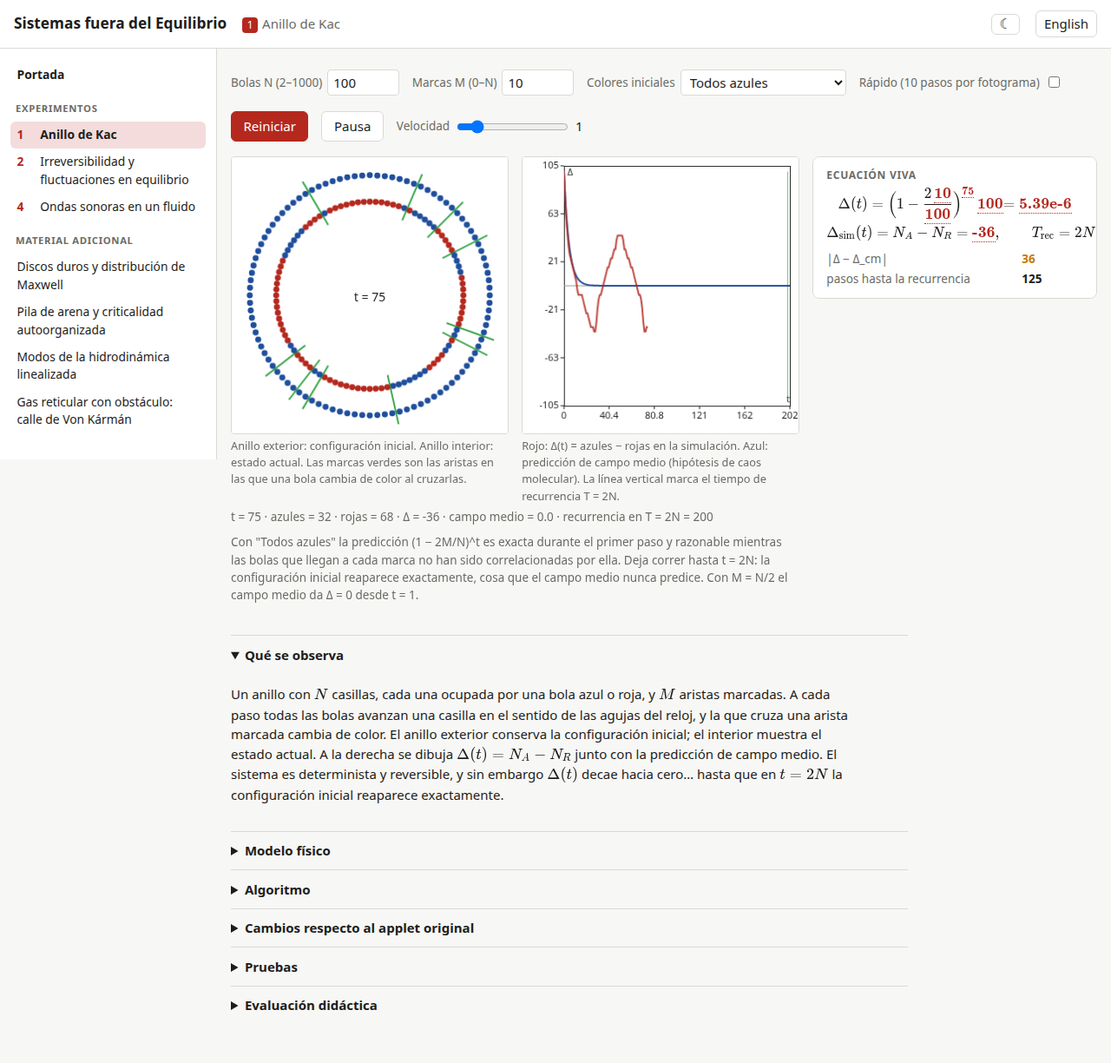
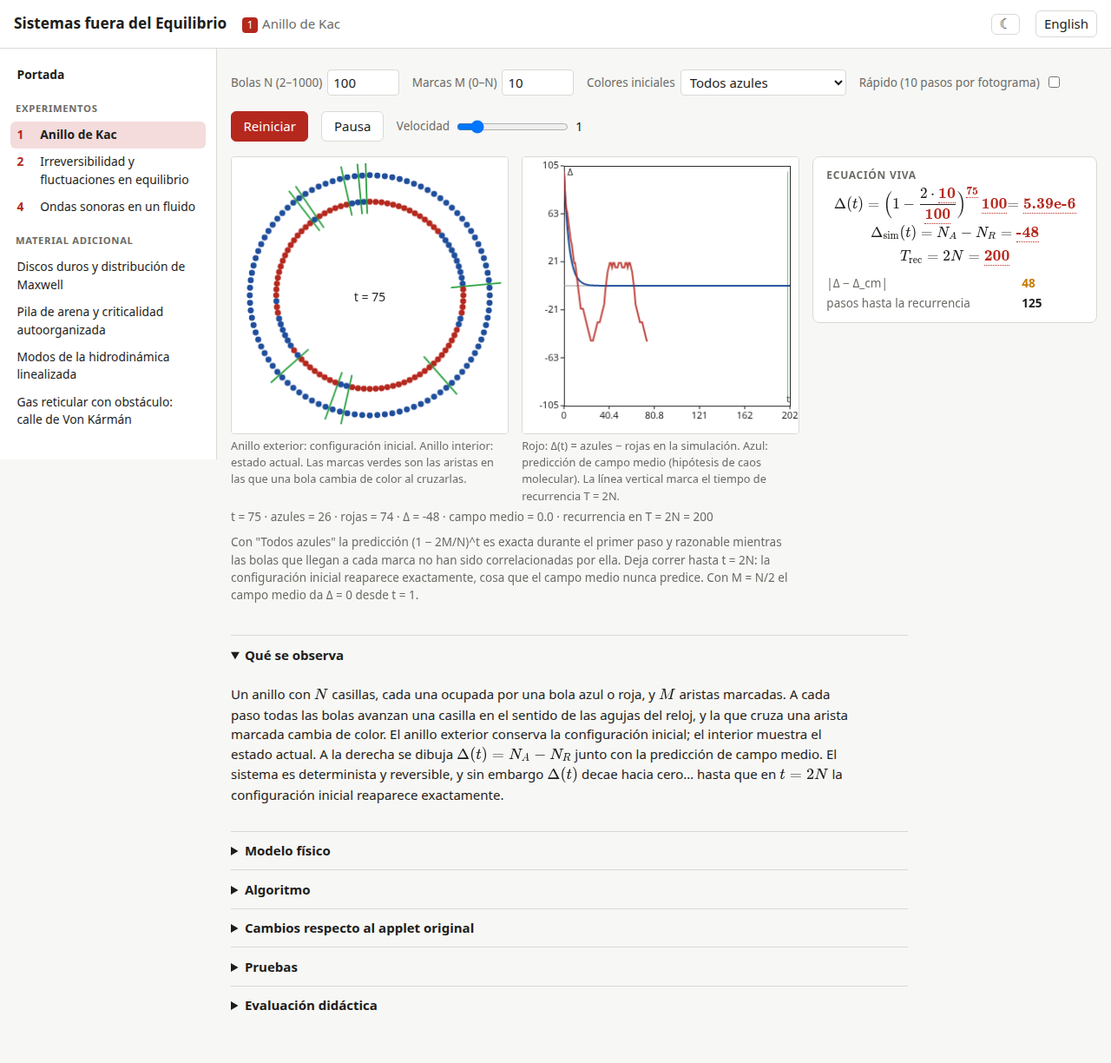
feat: irreversibilidad experiment (free expansion, Ehrenfest model, embedded window fluctuations) with binomial live equation

diff --git a/applets/irreversibilidad/applet.js b/applets/irreversibilidad/applet.js
@@ -1,0 +1,145 @@
+// Irreversibility and equilibrium fluctuations — experiment 2. Three views:
+// A) free expansion of a hard-disk gas, B) Ehrenfest random model,
+// C) occupation fluctuations in a window (the phase-1 applet, embedded).
+import { i18n } from '../../lib/i18n.js';
+import { Plot } from '../../lib/plot.js';
+import { Loop } from '../../lib/loop.js';
+import { numberField, select, loopControls } from '../../lib/ui.js';
+import { autoResize, appletSkeleton, mountSections } from '../../lib/page.js';
+import { liveEquation, formatValue } from '../../lib/liveeq.js';
+import * as I from './model.js';
+import * as Fl from '../fluctuaciones/applet.js';
+
+export const meta = { slug: 'irreversibilidad', titleKey: 'irrev.title', legacyPath: 'HARDDISKSAPPLET_BASE.JAVA', number: 2 };
+
+i18n.register({
+  es: {
+    'irrev.view': 'Vista', 'irrev.view.gas': 'A · Expansión libre de discos duros', 'irrev.view.ehrenfest': 'B · Modelo aleatorio (Ehrenfest)', 'irrev.view.window': 'C · Fluctuaciones en una ventana',
+    'irrev.N': 'Partículas N', 'irrev.kT': 'Temperatura kT', 'irrev.plot': 'Gráfica', 'irrev.plot.series': 'Δ(t) = n_izq − n_dcha', 'irrev.plot.hist': 'Histograma de Δ frente a la binomial',
+    'irrev.cap.box': 'Las N partículas empiezan en la mitad izquierda. Al iniciar se retira el tabique (línea discontinua) y el gas se expande. En B no hay dinámica: cada paso se elige una partícula al azar y se cambia de lado.',
+    'irrev.cap.plot': 'Rojo: Δ(t). Bandas azules: ±σ y ±3σ con σ_Δ = √N (68 % y 99.7 % del tiempo en equilibrio). En el histograma, barras: medido; azul: binomial exacta.',
+    'irrev.readout': 't = {t} · izquierda = {l} · derecha = {r} · Δ = {d} · ⟨Δ⟩ = {mean} · σ_Δ medida = {sd} (teoría √N = {sN}) · |Δ| > 3σ el {f3} % del tiempo · todas a un lado el {fall} %',
+    'irrev.hint': 'Con N = 6 verás a menudo las seis partículas en el mismo lado: la "expansión" se invierte sola. Con N = 20 ocurre el 0.0002 % de los pasos; con N = 100 nunca lo verás. La irreversibilidad es cuestión del número de partículas, no de la dinámica. La vista B reproduce las mismas fluctuaciones sin ninguna mecánica.',
+    'irrev.eq.N': 'número de partículas', 'irrev.eq.sigma': 'desviación típica de Δ en equilibrio', 'irrev.eq.pall': 'probabilidad de encontrar todas a un lado', 'irrev.eq.sd': 'σ_Δ medida',
+    'irrev.ind.ratio': 'σ_Δ medida / √N', 'irrev.ind.all': 'fracción con todas a un lado (teoría 2^{1−N})',
+  },
+  en: {
+    'irrev.view': 'View', 'irrev.view.gas': 'A · Free expansion of hard disks', 'irrev.view.ehrenfest': 'B · Random model (Ehrenfest)', 'irrev.view.window': 'C · Fluctuations in a window',
+    'irrev.N': 'Particles N', 'irrev.kT': 'Temperature kT', 'irrev.plot': 'Plot', 'irrev.plot.series': 'Δ(t) = n_left − n_right', 'irrev.plot.hist': 'Histogram of Δ vs the binomial',
+    'irrev.cap.box': 'The N particles start in the left half. On start the partition (dashed) is removed and the gas expands. In B there is no dynamics: each step picks a particle at random and moves it to the other side.',
+    'irrev.cap.plot': 'Red: Δ(t). Blue bands: ±σ and ±3σ with σ_Δ = √N (68 % and 99.7 % of the time in equilibrium). In the histogram, bars: measured; blue: exact binomial.',
+    'irrev.readout': 't = {t} · left = {l} · right = {r} · Δ = {d} · ⟨Δ⟩ = {mean} · measured σ_Δ = {sd} (theory √N = {sN}) · |Δ| > 3σ {f3} % of the time · all on one side {fall} %',
+    'irrev.hint': 'With N = 6 you will often see all six particles on the same side: the "expansion" reverses by itself. With N = 20 it happens 0.0002 % of the steps; with N = 100 you will never see it. Irreversibility is a matter of particle number, not of dynamics. View B reproduces the same fluctuations with no mechanics at all.',
+    'irrev.eq.N': 'number of particles', 'irrev.eq.sigma': 'standard deviation of Δ in equilibrium', 'irrev.eq.pall': 'probability of finding all on one side', 'irrev.eq.sd': 'measured σ_Δ',
+    'irrev.ind.ratio': 'measured σ_Δ / √N', 'irrev.ind.all': 'fraction with all on one side (theory 2^{1−N})',
+  },
+});
+
+export function mount(root, { root: base = '../..' } = {}) {
+  root.innerHTML = '<div class="params view-select"></div><div class="view-host"></div><div class="theory-sections"></div>';
+  const host = root.querySelector('.view-host');
+  const pView = select({ label: 'irrev.view', value: 'gas', options: ['gas', 'ehrenfest', 'window'].map((v) => ({ value: v, label: `irrev.view.${v}` })), onChange: (v) => show(v) });
+  root.querySelector('.view-select').append(pView.el);
+  let handle = null;
+  function show(v) {
+    handle?.destroy?.(); host.replaceChildren();
+    handle = v === 'window' ? Fl.mount(host, { root: base, embedded: true }) : mountAB(host, v);
+    i18n.apply(host); window.dispatchEvent(new Event('resize'));
+  }
+  show('gas');
+  mountSections(root.querySelector('.theory-sections'), meta.slug, base);
+  return { get loop() { return handle?.loop; }, destroy() { handle?.destroy?.(); root.replaceChildren(); } };
+}
+
+function mountAB(root, kind) {
+  const ui = appletSkeleton(root, { canvases: [{ id: 'box', caption: 'irrev.cap.box' }, { id: 'plot', caption: 'irrev.cap.plot' }], hintKey: 'irrev.hint', theory: false });
+  let state;
+  const pN = numberField({ label: 'irrev.N', value: 20, min: 1, max: kind === 'gas' ? 100 : 1000, integer: true });
+  const pkT = numberField({ label: 'irrev.kT', value: 1, min: 0.01, max: 100 });
+  const pPlot = select({ label: 'irrev.plot', value: 'series', options: [{ value: 'series', label: 'irrev.plot.series' }, { value: 'hist', label: 'irrev.plot.hist' }], onChange: () => draw() });
+  ui.params.append(pN.el); if (kind === 'gas') ui.params.append(pkT.el); ui.params.append(pPlot.el);
+
+  const L = 200;
+  const box = new Plot(ui.canvas.box, { xmin: 0, xmax: L, ymin: 0, ymax: L });
+  const plot = new Plot(ui.canvas.plot, { axes: true, xlabel: 't', ylabel: 'Δ' });
+  const eq = liveEquation(ui.panel, {
+    title: 'eq.title',
+    equations: [
+      { tex: 'P(n_{\\rm izq}=n) = \\binom{\\htmlId{N}{N}}{n}\\,2^{-N},\\qquad \\Delta = n_{\\rm izq} - n_{\\rm dcha}', slots: { N: { label: 'irrev.eq.N' } } },
+      { tex: '\\sigma_\\Delta = \\sqrt{N} = \\htmlId{sigma}{\\sigma_\\Delta},\\qquad \\sigma_\\Delta^{\\rm med} = \\htmlId{sd}{\\sigma}', slots: { sigma: { label: 'irrev.eq.sigma' }, sd: { label: 'irrev.eq.sd' } } },
+      { tex: 'P(|\\Delta| = N) = 2^{\\,1-N} = \\htmlId{pall}{P}', slots: { pall: { label: 'irrev.eq.pall', fmt: (v) => (v < 1e-4 ? v.toExponential(1) : formatValue(v)) } } },
+    ],
+    indicators: [{ key: 'ratio', label: 'irrev.ind.ratio' }, { key: 'all', label: 'irrev.ind.all', fmt: (v) => (Number.isNaN(v) ? '—' : v === 0 ? '0' : v.toExponential(1)) }],
+  });
+
+  const SKIP = () => (kind === 'gas' ? 100 : 5 * state.N); // transient to drop from statistics
+  function reset() {
+    state = kind === 'gas' ? I.createGas({ N: pN.get(), kT: pkT.get(), L }) : I.createEhrenfest({ N: pN.get() });
+    eq.update({ N: state.N, sigma: Math.sqrt(state.N), pall: I.probAllOneSide(state.N) });
+  }
+  function step() { if (kind === 'gas') I.stepGas(state); else I.stepEhrenfest(state); }
+  function drawBox() {
+    box.clear();
+    box.color('#999'); box.ctx.setLineDash([6, 6]); box.line(L / 2, 0, L / 2, L); box.ctx.setLineDash([]);
+    if (kind === 'gas') {
+      if (!state.partition.open) { box.color('#444'); box.lineWidth(3); box.line(L / 2, 0, L / 2, L); box.lineWidth(1); }
+      box.color('#1f4e9c');
+      for (let i = 0; i < state.N; i++) box.disk(state.x[i], state.y[i], state.r[i]);
+    } else {
+      // Ehrenfest: draw `left` disks on the left grid and the rest on the right.
+      const N = state.N, cols = Math.ceil(Math.sqrt(N)), cell = (L / 2 - 10) / cols, r = Math.min(4, cell * 0.4);
+      box.color('#1f4e9c');
+      for (let i = 0; i < state.left; i++) box.disk(5 + cell * (i % cols + 0.5), 5 + cell * (Math.floor(i / cols) + 0.5), r);
+      box.color('#b5281e');
+      for (let i = 0; i < N - state.left; i++) box.disk(L / 2 + 5 + cell * (i % cols + 0.5), 5 + cell * (Math.floor(i / cols) + 0.5), r);
+    }
+    box.end();
+  }
+  function drawPlot() {
+    const N = state.N, h = state.history, sN = Math.sqrt(N);
+    if (pPlot.get() === 'series') {
+      const win = kind === 'gas' ? 600 : Math.max(600, 20 * N), from = Math.max(0, h.length - win);
+      plot.xlabel = 't'; plot.ylabel = 'Δ';
+      plot.setScales(from, from + win, -N * 1.05, N * 1.05);
+      plot.clear();
+      plot.color('rgba(31,78,156,0.12)'); plot.bar(from, from + win, 3 * sN, -3 * sN);
+      plot.color('rgba(31,78,156,0.25)'); plot.bar(from, from + win, sN, -sN);
+      plot.color('#999'); plot.line(from, 0, from + win, 0);
+      plot.color('rgba(181,40,30,0.85)'); plot.lineWidth(1.5);
+      const xs = [], ys = []; for (let i = from; i < h.length; i++) { xs.push(i); ys.push(h[i]); }
+      if (xs.length > 1) plot.polyline(xs, ys); plot.lineWidth(1);
+      plot.end();
+    } else {
+      const { delta, p } = I.binomialDiff(N);
+      const { h: hist } = I.histogramDiff(h, N, Math.min(SKIP(), h.length - 1));
+      let pmax = 0; for (let k = 0; k <= N; k++) pmax = Math.max(pmax, p[k], hist[k]);
+      plot.xlabel = 'Δ'; plot.ylabel = 'P(Δ)';
+      plot.setScales(-N - 1, N + 1, 0, pmax * 1.15);
+      plot.clear();
+      plot.color('rgba(181,40,30,0.7)');
+      for (let k = 0; k <= N; k++) if (hist[k] > 0) plot.bar(delta[k] - 0.8, delta[k] + 0.8, hist[k]);
+      plot.color('#1f4e9c'); plot.lineWidth(2);
+      const xs = [], ys = []; for (let k = 0; k <= N; k++) { xs.push(delta[k]); ys.push(p[k]); }
+      plot.polyline(xs, ys); plot.lineWidth(1);
+      plot.end();
+    }
+  }
+  function draw() {
+    drawBox(); drawPlot();
+    const d = I.difference(state), N = state.N, skip = Math.min(SKIP(), Math.max(0, state.history.length - 1));
+    const st = I.seriesStats(state.history, skip), tails = I.tailFractions(state.history, N, skip);
+    ui.readout.textContent = i18n.t('irrev.readout', {
+      t: kind === 'gas' ? state.t.toFixed(0) : state.t, l: (N + d) / 2, r: (N - d) / 2, d, mean: st.n ? st.mean.toFixed(2) : '–', sd: st.n ? st.sd.toFixed(2) : '–', sN: Math.sqrt(N).toFixed(2),
+      f3: st.n ? (100 * tails.beyond3).toFixed(2) : '–', fall: st.n ? (100 * tails.allOneSide).toFixed(3) : '–',
+    });
+    eq.update({ sd: st.n > 20 ? st.sd : NaN });
+    const ratio = st.n > 20 ? st.sd / Math.sqrt(N) : NaN;
+    eq.setIndicator('ratio', ratio, Number.isNaN(ratio) ? 'none' : Math.abs(ratio - 1) < 0.2 ? 'ok' : 'warn');
+    eq.setIndicator('all', st.n > 20 ? tails.allOneSide : NaN);
+  }
+  const loop = new Loop({ step, draw, reset, stepsPerFrame: kind === 'gas' ? 1 : 4 });
+  ui.loopctl.append(loopControls(loop, { speedMin: 1, speedMax: kind === 'gas' ? 10 : 200 }).el);
+  reset();
+  const off = autoResize([box, plot], draw);
+  return { loop, destroy() { loop.pause(); off(); root.replaceChildren(); } };
+}

diff --git a/applets/irreversibilidad/model.js b/applets/irreversibilidad/model.js
@@ -1,0 +1,68 @@
+// Irreversibility and equilibrium fluctuations: free expansion of a hard-disk
+// gas (shared engine) and the Ehrenfest "random model" (pick a particle at
+// random and move it to the other half). Pure module.
+import * as D from '../_kinetic/disks.js';
+import { binomialPmf } from '../../lib/stats.js';
+
+export const HISTORY_MAX = 20000;
+
+export function createGas({ N = 20, kT = 1, L = 200, radius = 4, rng = Math.random } = {}) {
+  const s = D.createGas({ N, L, radius, dist: 'maxwell', kT, rng, partition: { x: L / 2, open: false } });
+  s.history = [difference(s)];
+  s.kind = 'gas';
+  return s;
+}
+export function stepGas(s) {
+  if (!s.partition.open) D.openPartition(s);
+  D.step(s);
+  push(s, difference(s));
+}
+
+export function createEhrenfest({ N = 20, rng = Math.random } = {}) {
+  const s = { kind: 'ehrenfest', N, left: N, t: 0, rng, history: [N] };
+  return s;
+}
+export function stepEhrenfest(s) {
+  // choose a particle uniformly: with probability left/N it is on the left
+  if (s.rng() < s.left / s.N) s.left--; else s.left++;
+  s.t++;
+  push(s, 2 * s.left - s.N);
+}
+
+export function difference(s) {
+  if (s.kind === 'ehrenfest') return 2 * s.left - s.N;
+  const [l, r] = D.countSide(s);
+  return l - r;
+}
+function push(s, d) { s.history.push(d); if (s.history.length > HISTORY_MAX) s.history.splice(0, HISTORY_MAX / 2); }
+
+// Equilibrium distribution of Δ = n_left − n_right for N independent particles, p = 1/2.
+// Returns { delta: Int32Array(N+1), p: Float64Array(N+1) } with delta[k] = 2k − N.
+export function binomialDiff(N) {
+  const delta = new Int32Array(N + 1), p = new Float64Array(N + 1);
+  for (let k = 0; k <= N; k++) { delta[k] = 2 * k - N; p[k] = binomialPmf(k, N, 0.5); }
+  return { delta, p };
+}
+export const sigmaDelta = (N) => Math.sqrt(N);
+export const probAllOneSide = (N) => Math.pow(2, 1 - N);
+
+// Histogram of a Δ series on the binomial support (ignores the initial transient `skip`).
+export function histogramDiff(history, N, skip = 0) {
+  const h = new Float64Array(N + 1); let n = 0;
+  for (let i = skip; i < history.length; i++) { const k = (history[i] + N) / 2; if (k >= 0 && k <= N) { h[k]++; n++; } }
+  if (n) for (let k = 0; k <= N; k++) h[k] /= n;
+  return { h, n };
+}
+export function seriesStats(history, skip = 0) {
+  let n = 0, m = 0, m2 = 0, big = 0;
+  for (let i = skip; i < history.length; i++) { const d = history[i]; n++; m += d; m2 += d * d; }
+  if (!n) return { n: 0, mean: NaN, sd: NaN, fracBeyond3: NaN };
+  m /= n; const v = m2 / n - m * m;
+  return { n, mean: m, sd: Math.sqrt(Math.max(0, v)), fracBeyond3: big / n };
+}
+// Fraction of samples with |Δ| > 3 sqrt(N) and fraction with |Δ| == N (all on one side).
+export function tailFractions(history, N, skip = 0) {
+  let n = 0, b3 = 0, all = 0;
+  for (let i = skip; i < history.length; i++) { n++; const a = Math.abs(history[i]); if (a > 3 * Math.sqrt(N)) b3++; if (a === N) all++; }
+  return n ? { beyond3: b3 / n, allOneSide: all / n } : { beyond3: NaN, allOneSide: NaN };
+}

diff --git a/tests/irreversibilidad.test.js b/tests/irreversibilidad.test.js
@@ -1,0 +1,47 @@
+import { test } from 'node:test';
+import assert from 'node:assert/strict';
+import { mulberry32 } from '../lib/rng.js';
+import { chiSquare, chiSquareSurvival } from '../lib/stats.js';
+import * as I from '../applets/irreversibilidad/model.js';
+
+test('Ehrenfest model: stationary mean N/2 and variance N/4; histogram is binomial', () => {
+  const N = 50, s = I.createEhrenfest({ N, rng: mulberry32(11) });
+  for (let t = 0; t < 2000; t++) I.stepEhrenfest(s); // transient
+  s.history = [];
+  const T = 100000;
+  for (let t = 0; t < T; t++) I.stepEhrenfest(s);
+  const st = I.seriesStats(s.history);
+  // Δ = 2 left − N: mean 0, variance N (independent samples would give sd/√T ≈ 0.02; the chain is correlated, allow 1.0)
+  assert.ok(Math.abs(st.mean) < 1.0, `mean Δ ${st.mean}`);
+  assert.ok(Math.abs(st.sd * st.sd / N - 1) < 0.3, `var Δ / N = ${st.sd * st.sd / N}`);
+  const { h } = I.histogramDiff(s.history, N);
+  const { p } = I.binomialDiff(N);
+  // thin the correlated series: compare shapes with a χ² on counts of every 10th sample
+  const thin = s.history.filter((_, i) => i % 11 === 0); // odd stride: Δ changes by ±2, an even stride would sample one parity only
+  const { h: ht, n } = I.histogramDiff(thin, N);
+  const obs = [], exp = [];
+  for (let k = 0; k <= N; k++) if (p[k] * n >= 5) { obs.push(ht[k] * n); exp.push(p[k] * n); }
+  const { chi2, dof } = chiSquare(obs, exp);
+  const pv = chiSquareSurvival(chi2, dof);
+  assert.ok(pv > 0.01, `binomial rejected: chi2=${chi2.toFixed(1)} dof=${dof} p=${pv}`);
+  assert.ok(h[N / 2] > h[0], 'mode at Δ = 0');
+});
+
+test('hard-disk gas starts entirely on the left and spreads once the partition opens', () => {
+  const s = I.createGas({ N: 30, kT: 1, rng: mulberry32(3) });
+  assert.equal(I.difference(s), 30);
+  for (let t = 0; t < 400; t++) I.stepGas(s);
+  const [l, r] = [(30 + I.difference(s)) / 2, (30 - I.difference(s)) / 2];
+  assert.ok(r > 5, `right side ${r}`);
+  assert.equal(l + r, 30);
+});
+
+test('binomialDiff is normalised, symmetric, with σ_Δ = √N and P(all one side) = 2^(1−N)', () => {
+  const N = 20, { delta, p } = I.binomialDiff(N);
+  let sum = 0, m2 = 0;
+  for (let k = 0; k <= N; k++) { sum += p[k]; m2 += p[k] * delta[k] * delta[k]; }
+  assert.ok(Math.abs(sum - 1) < 1e-12);
+  assert.ok(Math.abs(Math.sqrt(m2) - I.sigmaDelta(N)) < 1e-9);
+  assert.ok(Math.abs(p[0] + p[N] - I.probAllOneSide(N)) < 1e-15);
+  assert.equal(p[3], p[N - 3]);
+});

diff --git a/applets/kac/applet.js b/applets/kac/applet.js
@@ -46,8 +46,9 @@ export function mount(root, { root: base = '../..' } = {}) {
   const eq = liveEquation(ui.panel, {
     title: 'eq.title',
     equations: [
-      { tex: '\\Delta(t) = \\Big(1 - \\frac{2\\,\\htmlId{M}{M}}{\\htmlId{N}{N}}\\Big)^{\\htmlId{t}{t}}\\,\\htmlId{d0}{\\Delta(0)} = \\htmlId{mf}{\\Delta_{\\rm cm}}', slots: { M: { label: 'kac.eq.M' }, N: { label: 'kac.eq.N' }, t: { label: 'kac.eq.t' }, d0: { label: 'kac.eq.d0' }, mf: { label: 'kac.eq.mf' } } },
-      { tex: '\\Delta_{\\rm sim}(t) = N_A - N_R = \\htmlId{d}{\\Delta},\\qquad T_{\\rm rec} = 2N = \\htmlId{T}{2N}', slots: { d: { label: 'kac.eq.d' }, T: {} } },
+      { tex: '\\Delta(t) = \\Big(1 - \\frac{2\\cdot\\htmlId{M}{M}}{\\htmlId{N}{N}}\\Big)^{\\htmlId{t}{t}}\\,\\htmlId{d0}{\\Delta(0)} = \\htmlId{mf}{\\Delta_{\\rm cm}}', slots: { M: { label: 'kac.eq.M' }, N: { label: 'kac.eq.N' }, t: { label: 'kac.eq.t' }, d0: { label: 'kac.eq.d0' }, mf: { label: 'kac.eq.mf' } } },
+      { tex: '\\Delta_{\\rm sim}(t) = N_A - N_R = \\htmlId{d}{\\Delta}', slots: { d: { label: 'kac.eq.d' } } },
+      { tex: 'T_{\\rm rec} = 2N = \\htmlId{T}{2N}', slots: { T: {} } },
     ],
     indicators: [{ key: 'err', label: 'kac.ind.err' }, { key: 'T', label: 'kac.ind.T' }],
   });

diff --git a/applets/fluctuaciones/applet.js b/applets/fluctuaciones/applet.js
@@ -40,8 +40,8 @@ i18n.register({
 
 const W = 200, H = 200;
 
-export function mount(root, { root: base = '../..' } = {}) {
-  const ui = appletSkeleton(root, { canvases: [{ id: 'box', caption: 'fluct.cap.box' }, { id: 'graph', caption: 'fluct.cap.plot' }], hintKey: 'fluct.hint' });
+export function mount(root, { root: base = '../..', embedded = false } = {}) {
+  const ui = appletSkeleton(root, { canvases: [{ id: 'box', caption: 'fluct.cap.box' }, { id: 'graph', caption: 'fluct.cap.plot' }], hintKey: 'fluct.hint', theory: !embedded });
   let state;
   const pN = numberField({ label: 'fluct.N', value: 50, min: 1, max: 500, integer: true });
   const pkT = numberField({ label: 'fluct.kT', value: 100, min: 0.01, max: 10000 });

diff --git a/lib/registry.js b/lib/registry.js
@@ -7,7 +7,7 @@ import { i18n } from './i18n.js';
 export const REGISTRY = [
   { slug: 'kac', number: 1, titleKey: 'kac.title', path: 'applets/kac/applet.js',
     title: { es: 'Anillo de Kac', en: 'Kac ring' } },
-  { slug: 'fluctuaciones', number: 2, titleKey: 'fluct.title', path: 'applets/fluctuaciones/applet.js',
+  { slug: 'irreversibilidad', number: 2, titleKey: 'irrev.title', path: 'applets/irreversibilidad/applet.js',
     title: { es: 'Irreversibilidad y fluctuaciones en equilibrio', en: 'Irreversibility and fluctuations in equilibrium' } },
   { slug: 'onda-lgca', number: 4, titleKey: 'onda.title', path: 'applets/onda-lgca/applet.js',
     title: { es: 'Ondas sonoras en un fluido', en: 'Sound waves in a fluid' } },

diff --git a/applets/irreversibilidad/index.html b/applets/irreversibilidad/index.html
@@ -1,0 +1,18 @@
+<!doctype html>
+<html lang="es">
+<head>
+<meta charset="utf-8">
+<meta name="viewport" content="width=device-width, initial-scale=1">
+<title>Irreversibilidad y fluctuaciones en equilibrio</title>
+<link rel="stylesheet" href="../../assets/style.css">
+<link rel="icon" href="data:,">
+</head>
+<body>
+<header class="site"></header>
+<main>
+  <div id="app" class="applet"></div>
+  <footer class="site"></footer>
+</main>
+<script type="module" src="./view.js"></script>
+</body>
+</html>

diff --git a/applets/irreversibilidad/view.js b/applets/irreversibilidad/view.js
@@ -1,0 +1,7 @@
+// Standalone page: header/footer chrome plus the mountable applet.
+import { setupPage } from '../../lib/page.js';
+import '../../lib/registry.js'; // registers titles
+import { mount, meta } from './applet.js';
+
+setupPage({ slug: meta.slug, titleKey: meta.titleKey, legacyPath: meta.legacyPath, bare: true });
+mount(document.getElementById('app'), { root: '../..' });

diff --git a/docs/es/irreversibilidad.md b/docs/es/irreversibilidad.md
@@ -1,0 +1,36 @@
+# Irreversibilidad y fluctuaciones en equilibrio
+
+## Qué se observa
+
+Tres vistas del mismo fenómeno. **A**: $N$ discos duros empiezan en la mitad izquierda de una caja; al iniciar se retira el tabique y el gas se expande. Se dibuja $\Delta(t) = n_{\rm izq} - n_{\rm dcha}$ con las bandas $\pm\sigma$ y $\pm 3\sigma$ del equilibrio. **B**: el "modelo aleatorio" de Ehrenfest, sin dinámica: cada paso se elige una partícula al azar y se cambia de lado. **C**: las fluctuaciones del número de partículas dentro de una ventana arbitraria de un gas ideal (Poisson, binomial y autocorrelación). Con pocas partículas la expansión se invierte sola de vez en cuando; con cien, nunca.
+
+## Modelo físico
+
+Si las partículas son independientes y las dos mitades tienen el mismo volumen, la probabilidad de encontrar $n$ a la izquierda es binomial,
+
+$$P(n) = \binom{N}{n} 2^{-N},$$
+
+con máximo en $n = N/2$ y mínimo en $n = 0$ y $n = N$. El cociente entre ambos extremos, con Stirling, es $P(N/2)/P(0) \approx 2^N\sqrt{2/(\pi N)}$: la probabilidad de ver todo el gas a un lado decae exponencialmente con $N$. Para $N = 6$ es $2^{-5} \approx 3\%$, para $N = 20$ es $2 \cdot 10^{-6}$ y para $N = 100$, $10^{-30}$. En la variable $\Delta = 2n - N$ la binomial es, para $N$ grande, una gaussiana de dispersión $\sigma_\Delta = \sqrt N$; en la desviación relativa $x = \Delta/N$, $\sigma_x = 1/\sqrt N$: las fluctuaciones relativas se hacen invisibles a escala macroscópica.
+
+La irreversibilidad no está en la dinámica (la de los discos duros es reversible) sino en el número de grados de libertad: el estado inicial es uno entre $2^N$ igualmente probables en equilibrio. El modelo B lo demuestra reproduciendo exactamente las mismas estadísticas sin mecánica alguna: es la cadena de Markov de Ehrenfest, cuyo estado estacionario es la binomial anterior.
+
+## Algoritmo
+
+A: motor de discos duros por eventos (`applets/_kinetic/disks.js`) con tabique en $x = L/2$ que se abre en el primer paso; velocidades iniciales maxwellianas a la temperatura elegida. B: `left -= 1` con probabilidad `left/N`, si no `left += 1`. La serie $\Delta(t)$ se guarda (hasta 20 000 valores) y el histograma descarta el transitorio inicial (100 pasos en A, $5N$ en B). C: el applet `fluctuaciones` de la fase 1, incrustado.
+
+## Cambios respecto al applet original
+
+| Original (`HardDisksApplet`, `GasApplet`, `IrreversibilidadApplet`, 2002) | Aquí | Motivo |
+|---|---|---|
+| Bandas en $\pm 1/\sqrt N$ sobre la desviación relativa | Bandas $\pm\sqrt N$ y $\pm 3\sqrt N$ sobre $\Delta$ | Misma física, en la variable que se dibuja |
+| Histograma en ventana aparte | Histograma de $\Delta$ frente a la binomial exacta en la misma gráfica, con $\chi^2$ implícito en el indicador $\sigma$ | Comparación directa |
+| Dinámica de discos con paso fijo | Motor por eventos, sin solapamientos ni pérdida de energía | Corrección de la fase 1 |
+| Tres applets separados | Tres vistas en un experimento, con la misma ecuación viva | Ver que la estadística no depende del modelo |
+
+## Pruebas
+
+`tests/irreversibilidad.test.js`: Ehrenfest con $N = 50$ y $10^5$ pasos tiene media $\approx 0$ y varianza $\approx N$, y su histograma (diezmado) no se distingue de la binomial ($\chi^2$, $p > 0.01$); el gas empieza con $\Delta = N$ y tras abrir el tabique pasa más de un sexto a la derecha; `binomialDiff` está normalizada, es simétrica, tiene $\sigma = \sqrt N$ y $P(|\Delta| = N) = 2^{1-N}$. Motor de discos: `tests/disks.test.js`.
+
+## Evaluación didáctica
+
+Permite "ver" el argumento de Boltzmann: cambiar $N$ de 6 a 100 y observar cómo desaparecen las recurrencias. La vista B aísla el argumento combinatorio de la mecánica. Interactividad alta: $N$, temperatura, tipo de gráfica, y la ventana libre de la vista C. Fuente: curso *Experimentos Interactivos* (UCM), experimento 2 de Sistemas fuera del Equilibrio, R. Brito.

diff --git a/docs/en/irreversibilidad.md b/docs/en/irreversibilidad.md
@@ -1,0 +1,36 @@
+# Irreversibility and fluctuations in equilibrium
+
+## What you see
+
+Three views of the same phenomenon. **A**: $N$ hard disks start in the left half of a box; on start the partition is removed and the gas expands. $\Delta(t) = n_{\rm left} - n_{\rm right}$ is plotted with the equilibrium $\pm\sigma$ and $\pm 3\sigma$ bands. **B**: Ehrenfest's "random model", with no dynamics: each step a particle is picked at random and moved to the other side. **C**: fluctuations of the particle number inside an arbitrary window of an ideal gas (Poisson, binomial and autocorrelation). With few particles the expansion reverses by itself now and then; with a hundred, never.
+
+## Physical model
+
+If the particles are independent and both halves have the same volume, the probability of finding $n$ on the left is binomial,
+
+$$P(n) = \binom{N}{n} 2^{-N},$$
+
+maximal at $n = N/2$ and minimal at $n = 0$ and $n = N$. The ratio of the two, with Stirling, is $P(N/2)/P(0) \approx 2^N\sqrt{2/(\pi N)}$: the probability of seeing the whole gas on one side decays exponentially with $N$. For $N = 6$ it is $2^{-5} \approx 3\%$, for $N = 20$ it is $2 \cdot 10^{-6}$ and for $N = 100$, $10^{-30}$. In the variable $\Delta = 2n - N$ the binomial is, for large $N$, a Gaussian of width $\sigma_\Delta = \sqrt N$; in the relative deviation $x = \Delta/N$, $\sigma_x = 1/\sqrt N$: relative fluctuations become invisible at the macroscopic scale.
+
+Irreversibility is not in the dynamics (hard-disk dynamics is reversible) but in the number of degrees of freedom: the initial state is one among $2^N$ equally probable equilibrium states. Model B proves it by reproducing exactly the same statistics with no mechanics at all: it is the Ehrenfest Markov chain, whose stationary state is the binomial above.
+
+## Algorithm
+
+A: event-driven hard-disk engine (`applets/_kinetic/disks.js`) with a partition at $x = L/2$ that opens on the first step; Maxwellian initial velocities at the chosen temperature. B: `left -= 1` with probability `left/N`, otherwise `left += 1`. The series $\Delta(t)$ is stored (up to 20 000 values) and the histogram drops the initial transient (100 steps in A, $5N$ in B). C: the phase-1 `fluctuaciones` applet, embedded.
+
+## Changes with respect to the original applet
+
+| Original (`HardDisksApplet`, `GasApplet`, `IrreversibilidadApplet`, 2002) | Here | Reason |
+|---|---|---|
+| Bands at $\pm 1/\sqrt N$ on the relative deviation | Bands $\pm\sqrt N$ and $\pm 3\sqrt N$ on $\Delta$ | Same physics, in the plotted variable |
+| Histogram in a separate window | Histogram of $\Delta$ against the exact binomial on the same plot, with the $\sigma$ indicator | Direct comparison |
+| Fixed-step disk dynamics | Event-driven engine, no overlaps or energy loss | Phase-1 correction |
+| Three separate applets | Three views in one experiment sharing the live equation | See that the statistics do not depend on the model |
+
+## Tests
+
+`tests/irreversibilidad.test.js`: Ehrenfest with $N = 50$ and $10^5$ steps has mean $\approx 0$ and variance $\approx N$, and its (thinned) histogram is indistinguishable from the binomial ($\chi^2$, $p > 0.01$); the gas starts with $\Delta = N$ and after opening the partition more than a sixth crosses to the right; `binomialDiff` is normalised, symmetric, has $\sigma = \sqrt N$ and $P(|\Delta| = N) = 2^{1-N}$. Disk engine: `tests/disks.test.js`.
+
+## Didactic assessment
+
+It lets you "see" Boltzmann's argument: change $N$ from 6 to 100 and watch the recurrences vanish. View B isolates the combinatorial argument from mechanics. High interactivity: $N$, temperature, plot type, and the free window of view C. Source: *Experimentos Interactivos* course (UCM), experiment 2 of Non-equilibrium Systems, R. Brito.
